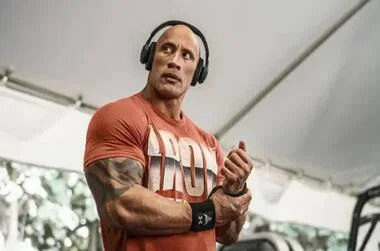
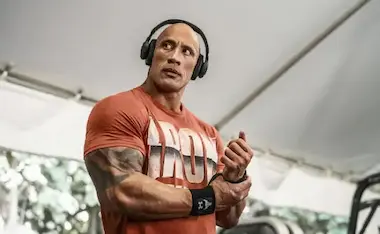
perf: improve lighthouse scores (#22)
* fix: Wrap missing image in <picture> tag

diff --git a/index.html b/index.html
@@ -463,14 +463,20 @@
     </div>
     <div class="news__inner">
       <article class="news__primary">
-        <img
-          src="images/news/the_rock.webp"
-          alt="'The Rock' Johnson's Projects"
-          class="news__primary-img"
-          width="620"
-          height="409"
-          loading="lazy"
-        >
+        <picture>
+          <source
+            srcset="images/news/mobile/the_rock_mobile.webp"
+            media="(max-width: 412px)"
+          />
+          <img
+            src="images/news/the_rock.webp"
+            alt="'The Rock' Johnson's Projects"
+            class="news__primary-img"
+            width="620"
+            height="409"
+            loading="lazy"
+          >
+        </picture>
         <h2 class="news__primary-title">"The Rock" Johnson's Projects</h2>
         <p class="news__primary-text">Updates on Dwayne Johnson's upcoming film and television projects, as well as his business ventures and philanthropic activities. Well as his business ventures and philanthropic activities.</p>
       </article>
